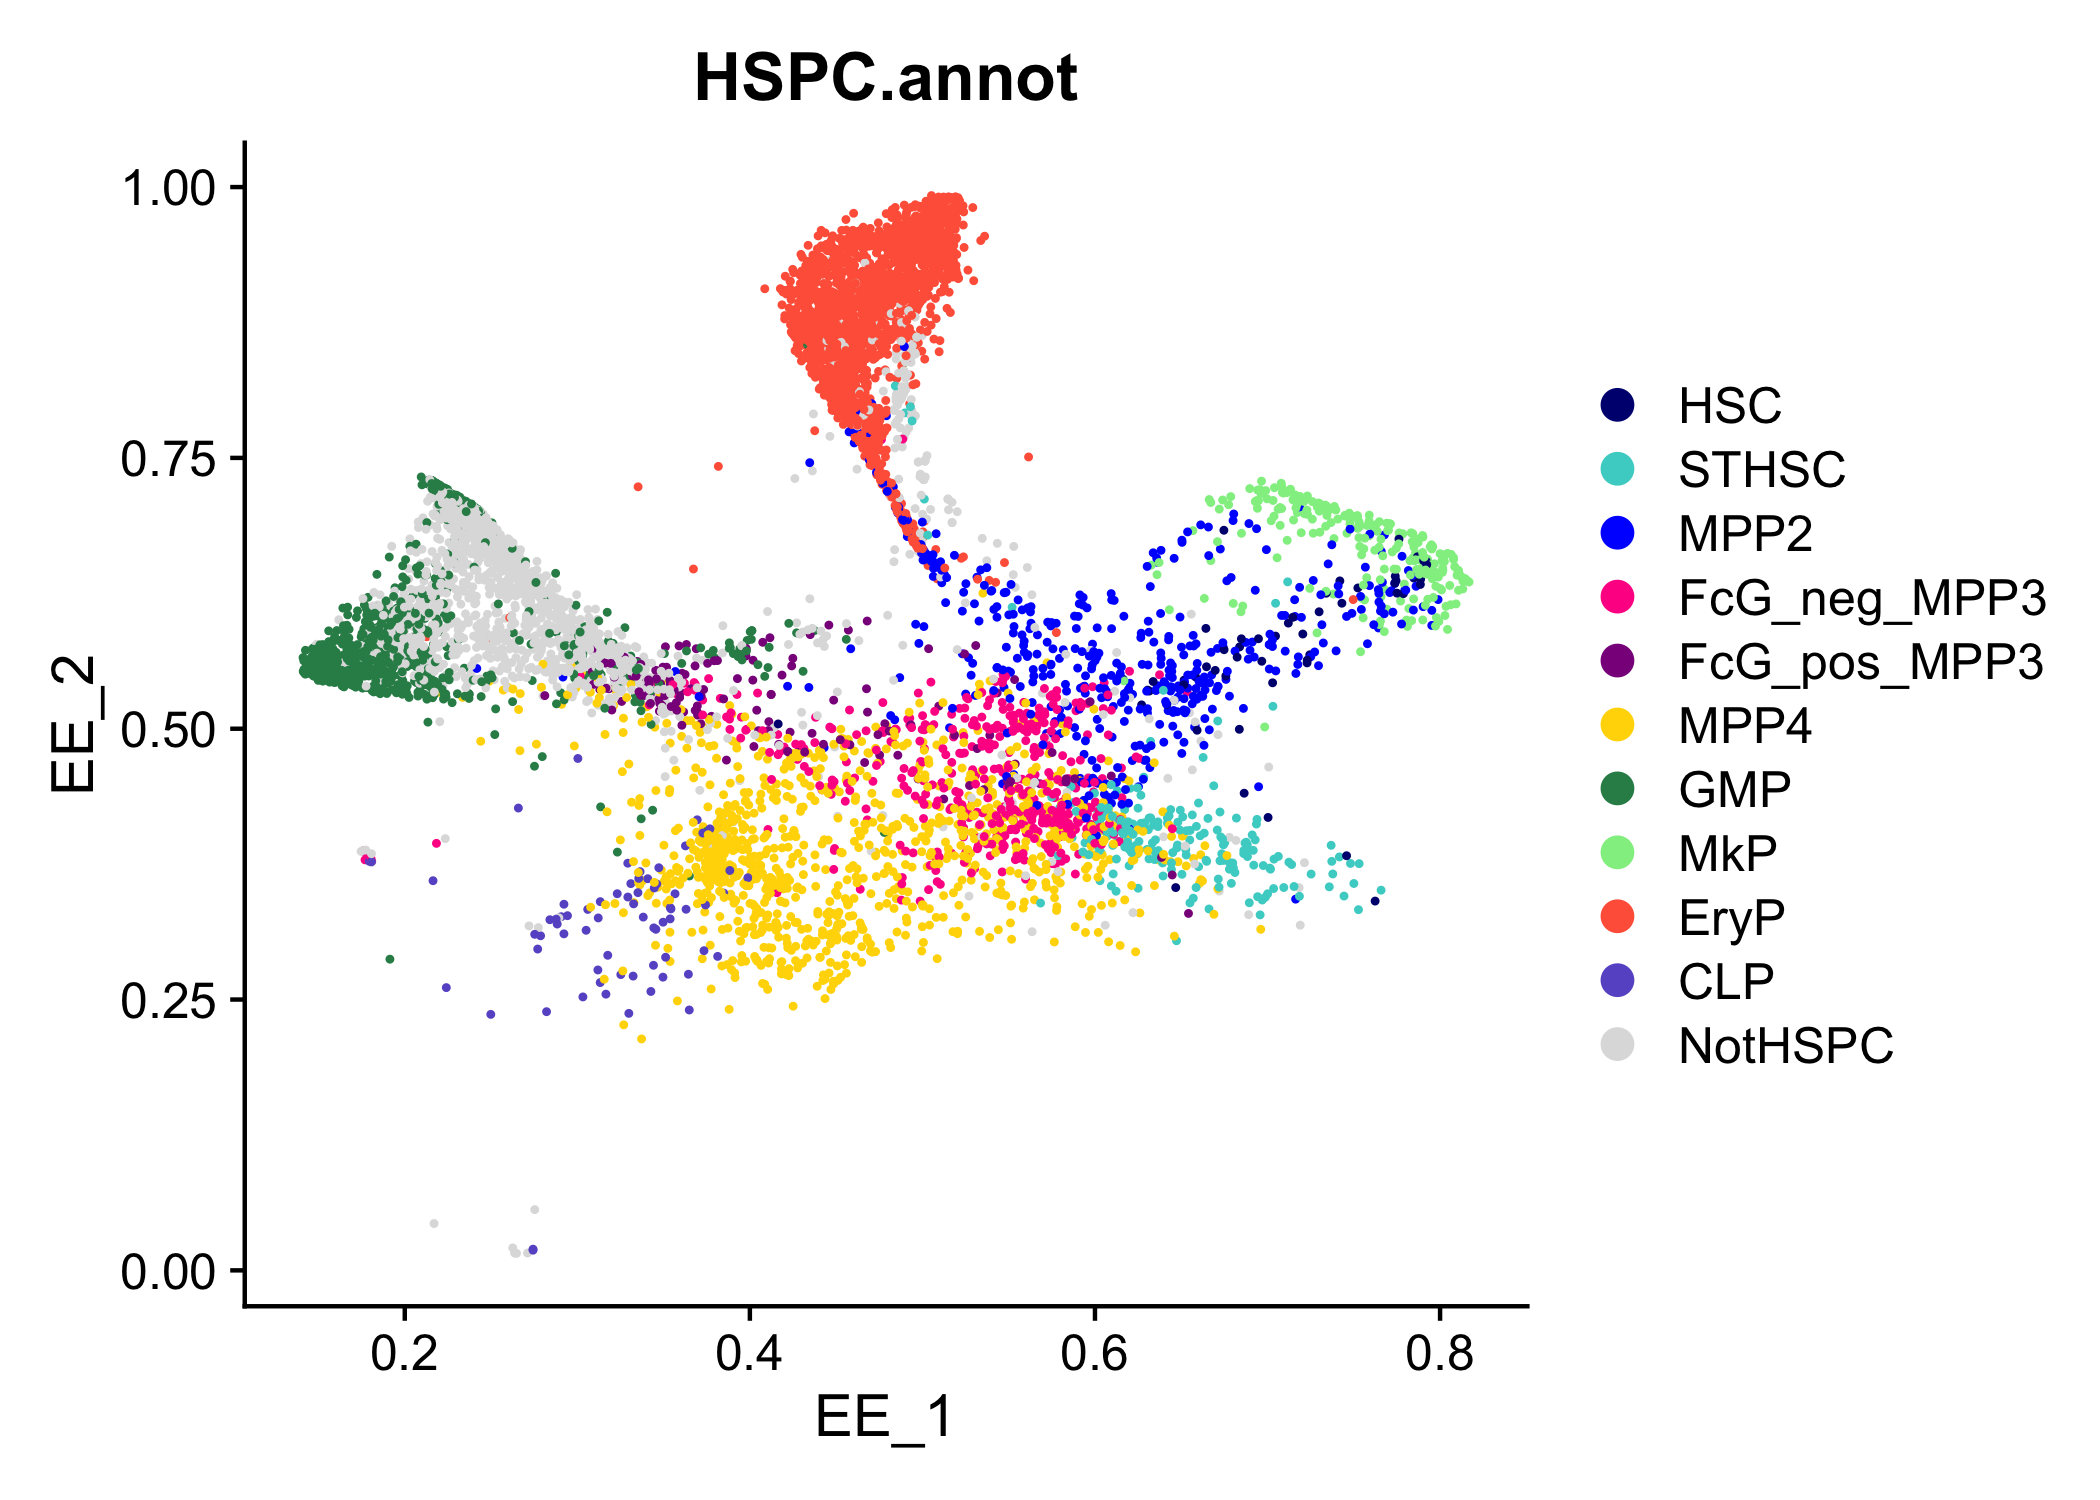
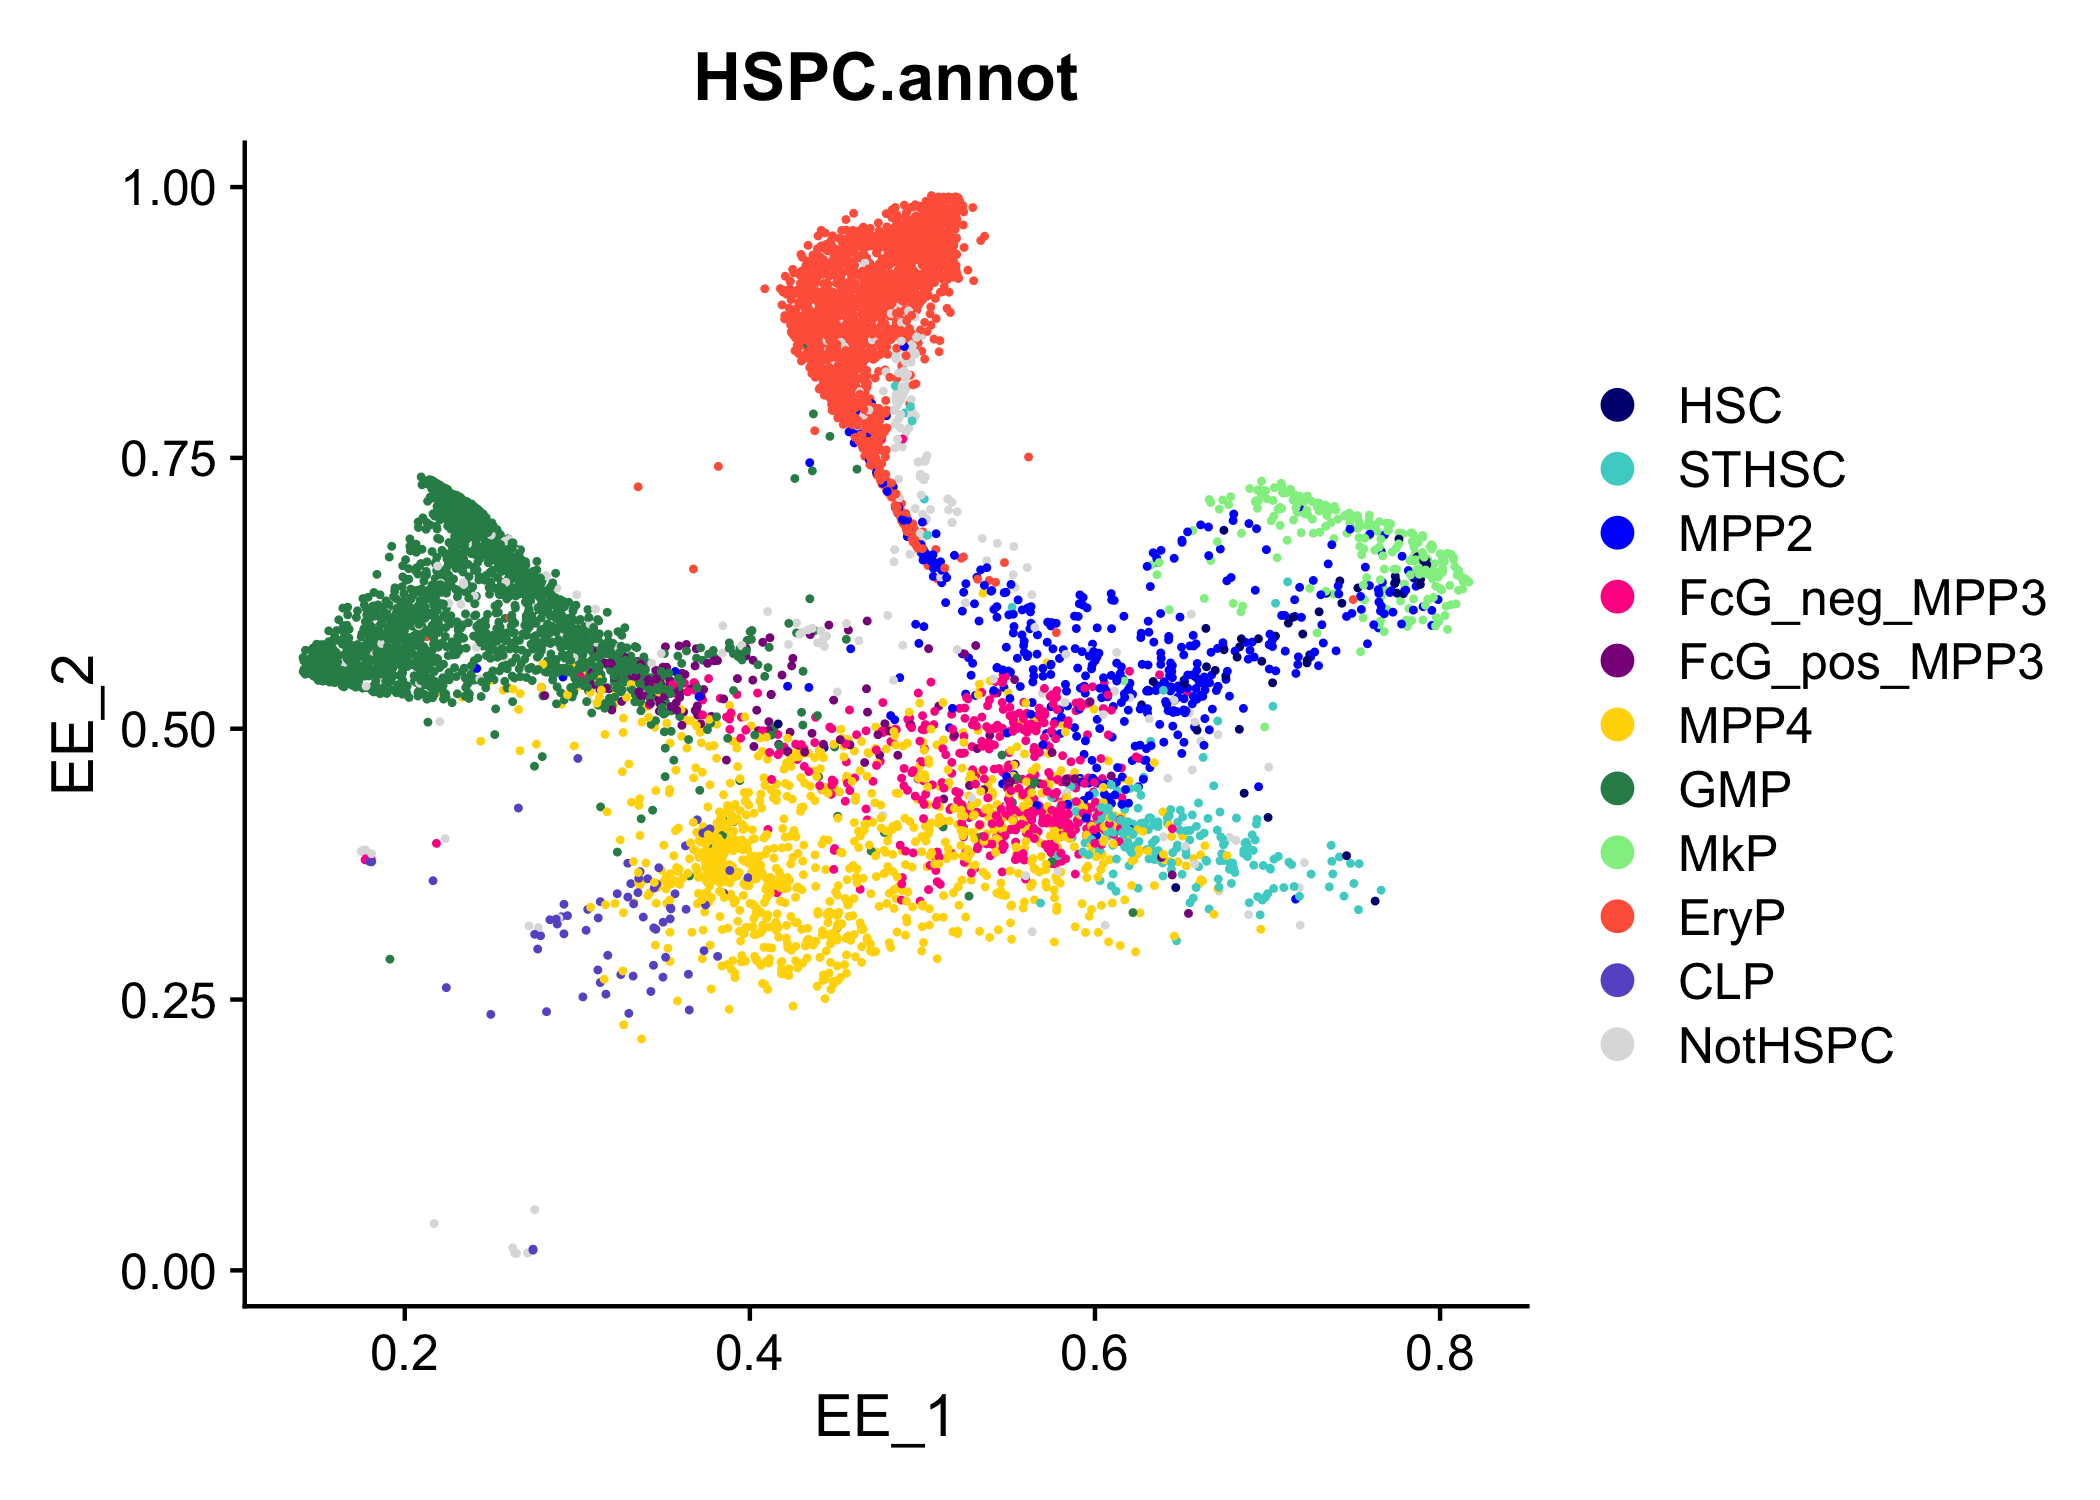
Updated references and fixed label bug

Changed region(s): [[0.1548, 0.3067, 0.3405, 0.4907]]

diff --git a/README.md b/README.md
@@ -58,10 +58,14 @@ The basic outputs of HemaScape trajectory mapping include:
 
 ## Installation
 
-HemaScribe requires the following non-CRAN packages: -
-[scater](https://www.bioconductor.org/packages/release/bioc/html/scater.html) -
-[SingleR](https://www.bioconductor.org/packages/release/bioc/html/SingleR.html) -
-[UCell](https://www.bioconductor.org/packages/release/bioc/html/UCell.html).
+HemaScribe requires the following non-CRAN packages:
+
+- [scater](https://www.bioconductor.org/packages/release/bioc/html/scater.html)
+
+- [SingleR](https://www.bioconductor.org/packages/release/bioc/html/SingleR.html)
+
+- [UCell](https://www.bioconductor.org/packages/release/bioc/html/UCell.html).
+
 Please ensure that they are available prior to installing HemaScribe.
 These packages can be installed from Bioconductor:
 
@@ -84,7 +88,7 @@ devtools::install_github("RabadanLab/HemaScribe")
 
 When the package is installed, reference data files will be
 automatically downloaded from the [latest
-release](https://github.com/jhfung/HemaScribe/releases). This is
+release](https://github.com/RabadanLab/HemaScribe/releases). This is
 required for the package to function.
 
 ## Example
@@ -103,6 +107,7 @@ suppressPackageStartupMessages({
 })
 
 # Download Collins et al. (2024) data from GEO.
+options(timeout = 1000)
 collins2024.seurat <- ReadMtx(
   mtx = "https://www.ncbi.nlm.nih.gov/geo/download/?acc=GSM7712015&format=file&file=GSM7712015%5FAA003%5Fmatrix%2Emtx%2Egz",
   cells = "https://www.ncbi.nlm.nih.gov/geo/download/?acc=GSM7712015&format=file&file=GSM7712015%5FAA003%5Fbarcodes%2Etsv%2Egz",
@@ -123,9 +128,9 @@ collins2024.seurat <- HemaScribe(collins2024.seurat, return.full = FALSE)
 
 head(collins2024.seurat$HSPC.annot)
 #> AAACCCAAGCCTGTCG-1 AAACCCAAGCTCACTA-1 AAACCCAAGTATGTAG-1 AAACCCACAAATTGGA-1 
-#>          "NotHSPC"          "NotHSPC"             "MPP2"             "MPP4" 
+#>              "GMP"              "GMP"             "MPP2"             "MPP4" 
 #> AAACCCACAATTTCGG-1 AAACCCATCACGTCCT-1 
-#>             "EryP"          "NotHSPC"
+#>             "EryP"              "GMP"
 ```
 
 Normally, HemaScribe annotation should be run on processed data, after

diff --git a/NEWS.md b/NEWS.md
@@ -1,3 +1,8 @@
+# HemaScribe 0.3.2
+
+* Fixed bug from GMP label conversion
+* Updated references to old repository
+
 # HemaScribe 0.3.1
 
 * Added instructions for installing non-CRAN dependencies to README
